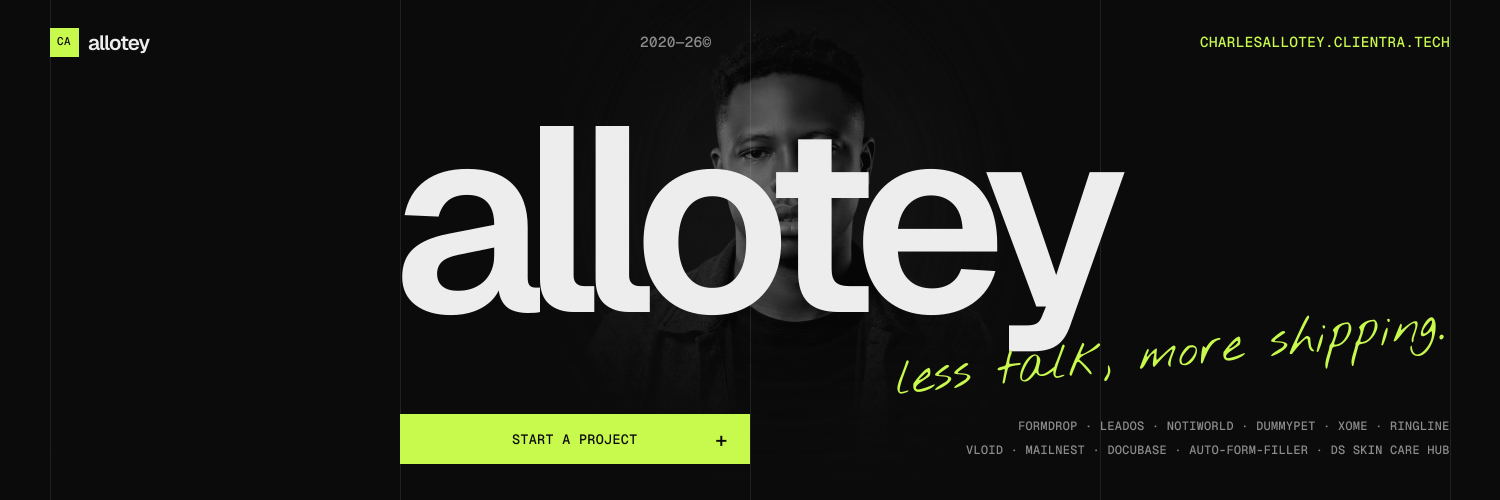
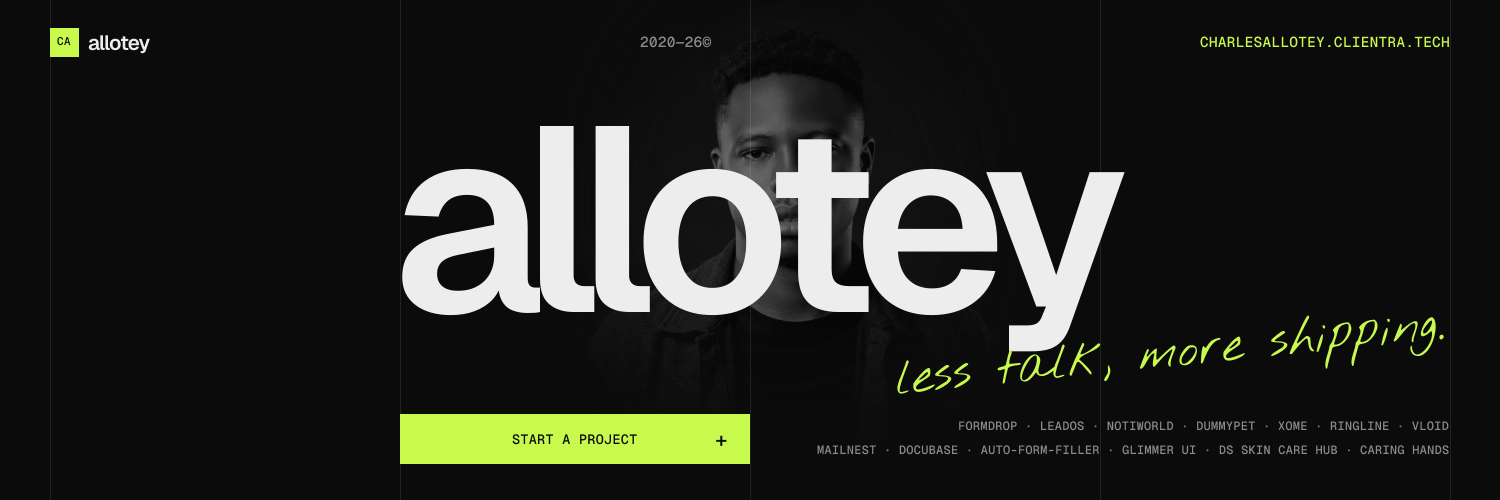
Add Glimmer UI and Caring Hands
Fourteen products: update the spelled-out counts, meta descriptions and
share images, lay the hero strip out in sevenths, and shrink the work
heading on tablets so it no longer clips.

Changed region(s): [[0.6133, 0.84, 0.9813, 0.93], [0.552, 0.87, 0.5827, 0.93]]

diff --git a/src/app/layout.tsx b/src/app/layout.tsx
@@ -15,13 +15,13 @@ const SITE_URL = "https://charlesallotey.clientra.tech";
 export const metadata: Metadata = {
   metadataBase: new URL(SITE_URL),
   title: "Charles Nii Adotey Allotey — Full-Stack Developer",
-  description: "Full-stack developer in Accra building leadOS, FormDrop, Vloid, XOME, Ringline, Notiworld, DummyPet and Docubase, plus open-source tools like Mailnest and auto-form-filler. Fluent in Vue/Nuxt, React/Next.js, Node.js and Laravel.",
+  description: "Full-stack developer in Accra building leadOS, FormDrop, Vloid, XOME, Ringline, Notiworld, DummyPet and Docubase, plus open-source tools like Mailnest, Glimmer UI and auto-form-filler. Fluent in Vue/Nuxt, React/Next.js, Node.js and Laravel.",
   keywords: ["Charles Allotey", "Full Stack Developer", "Vue School", "Vue 3", "Nuxt", "React", "Next.js", "TypeScript", "Node.js", "Laravel", "Backend Developer", "Accra", "Ghana"],
   authors: [{ name: "Charles Nii Adotey Allotey" }],
   // Share images come from app/opengraph-image.tsx and app/twitter-image.tsx
   openGraph: {
     title: "Charles Nii Adotey Allotey — Full-Stack Developer",
-    description: "I build products people actually use. Full-stack developer at Vue School and the builder behind Clientra and a few open-source tools: twelve products, all live.",
+    description: "I build products people actually use. Full-stack developer at Vue School and the builder behind Clientra and a few open-source tools: fourteen products, all live.",
     url: SITE_URL,
     siteName: "Charles Allotey Portfolio",
     locale: "en_US",
@@ -30,7 +30,7 @@ export const metadata: Metadata = {
   twitter: {
     card: "summary_large_image",
     title: "Charles Nii Adotey Allotey — Full-Stack Developer",
-    description: "I build products people actually use. Full-stack developer at Vue School and the builder behind Clientra and a few open-source tools: twelve products, all live.",
+    description: "I build products people actually use. Full-stack developer at Vue School and the builder behind Clientra and a few open-source tools: fourteen products, all live.",
     creator: "@adotey_",
   },
 };

diff --git a/src/data/projects.ts b/src/data/projects.ts
@@ -1,5 +1,5 @@
 export type Project = {
-  slug: "clientra" | "formdrop" | "leados" | "notiworld" | "dummypet" | "xome" | "ringline" | "vloid" | "mailnest" | "docubase" | "autoformfiller" | "dsskincarehub";
+  slug: "clientra" | "formdrop" | "leados" | "notiworld" | "dummypet" | "xome" | "ringline" | "vloid" | "mailnest" | "docubase" | "autoformfiller" | "glimmerui" | "dsskincarehub" | "caringhands";
   title: string;
   kind: string;
   blurb: string;
@@ -132,6 +132,17 @@ export const PROJECTS: Project[] = [
     image: "/projects/auto-form-filler.png",
   },
   {
+    slug: "glimmerui",
+    title: "Glimmer UI",
+    kind: "Open-source UI library",
+    blurb:
+      "Thirty shader effects you drop into a page. Backgrounds, image effects and tilting cards as ordinary components for React, Vue and Nuxt, all sharing one WebGL context, with CSS fallbacks and reduced motion built in.",
+    tags: ["WebGL", "React, Vue & Nuxt", "npm package"],
+    domain: "cnaallotey.github.io/glimmerui",
+    href: "https://cnaallotey.github.io/glimmerui/",
+    image: "/projects/glimmerui.png",
+  },
+  {
     slug: "dsskincarehub",
     title: "DS Skin Care Hub",
     kind: "Client storefront",
@@ -141,5 +152,16 @@ export const PROJECTS: Project[] = [
     domain: "dsskincarehub.clientra.tech",
     href: "https://dsskincarehub.clientra.tech/",
     image: "/projects/dsskincarehub.png",
+  },
+  {
+    slug: "caringhands",
+    title: "Caring Hands",
+    kind: "Client website",
+    blurb:
+      "Home and hospital nursing across Ghana, easy to ask for. Families browse nine care services, choose a shift and request a nurse online, on WhatsApp or by phone, at any hour.",
+    tags: ["Healthcare", "Nurse requests", "WhatsApp"],
+    domain: "caringhandshomenursing.org",
+    href: "https://caringhandshomenursing.org/",
+    image: "/projects/caringhands.png",
   },
 ];

diff --git a/src/app/page.tsx b/src/app/page.tsx
@@ -563,7 +563,7 @@ function Hero({ reduce, loaded }: { reduce: boolean; loaded: boolean }) {
         {/* Product strip */}
         <motion.ul {...fade(0.65)} className="flex flex-wrap justify-center border-t border-line">
           {PROJECTS.map((p) => (
-            <li key={p.slug} className="w-1/3 md:w-1/4 xl:w-1/6 2xl:w-auto 2xl:flex-auto">
+            <li key={p.slug} className="w-1/3 md:w-1/4 xl:w-1/7">
               <a
                 href={p.href}
                 target="_blank"
@@ -747,7 +747,8 @@ function Work({ reduce }: { reduce: boolean }) {
         <div className="py-24 md:pr-6 md:py-36">
           <div className="md:sticky md:top-24">
             <Label n="02">Selected work</Label>
-            <h2 className={`mt-8 ${H2}`}>
+            {/* The narrow tablet column would clip "products." at the usual size */}
+            <h2 className={`mt-8 ${H2} md:max-lg:text-[4.6vw]`}>
               <MaskLines reduce={reduce} lines={[numberWord(PROJECTS.length), "products.", <span key="c" className="text-accent">All live.</span>]} />
             </h2>
             <p className="mt-6 max-w-xs text-[15px] leading-relaxed text-muted">
